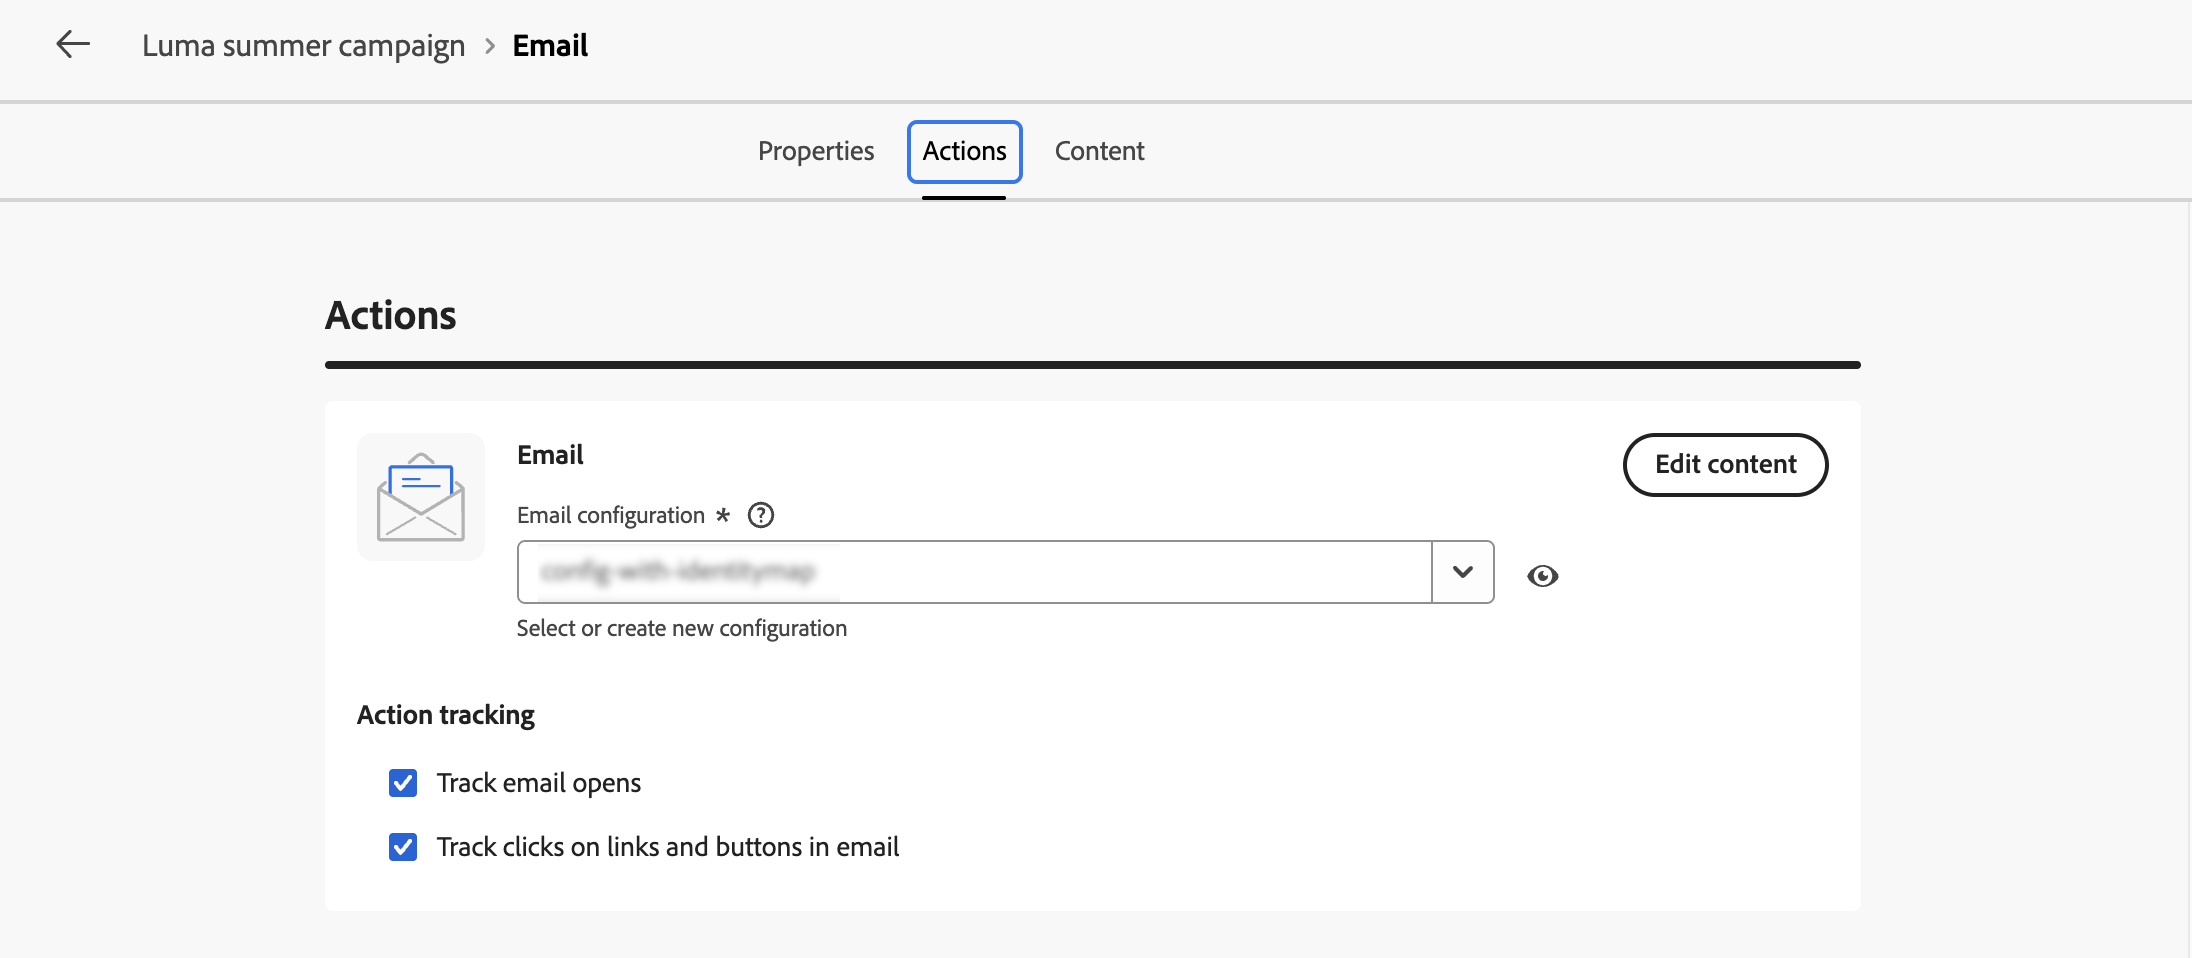
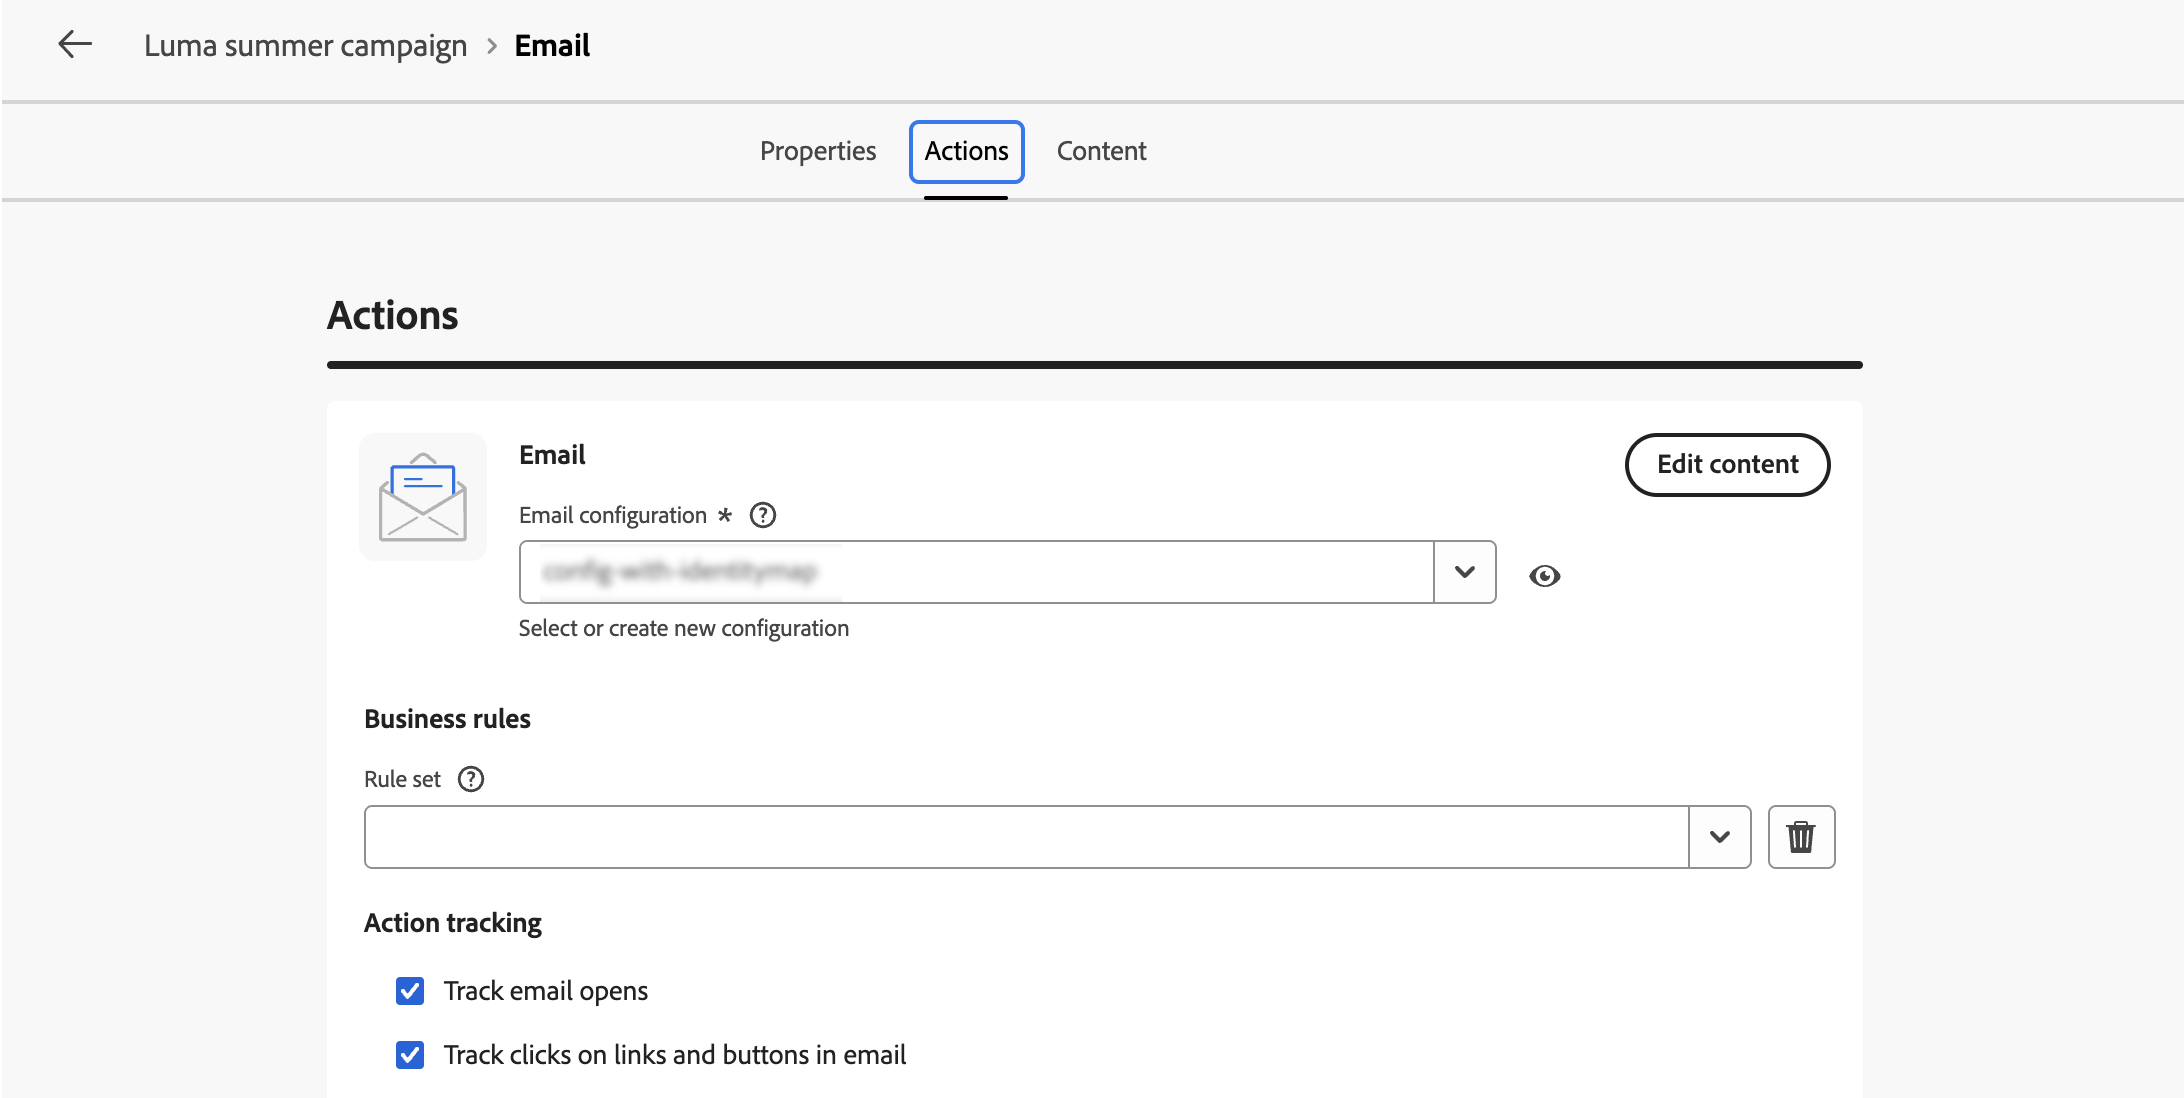
business rules in oc

diff --git a/help/using/orchestrated/activities/channels.md b/help/using/orchestrated/activities/channels.md
@@ -95,25 +95,29 @@ By using channel activities, you can create comprehensive and personalized campa
 
 Use the **[!UICONTROL Actions]** tab to select a channel configuration for your message and configure additional settings such as tracking, content experiment, or multilingual content.
 
-1. Select a channel configuration.
+1. **Select a channel configuration**
 
     A configuration is defined by a [System Administrator](../../start/path/administrator.md). It contains all the technical parameters for sending the message, such as header parameters, subdomain, mobile apps, etc. [Learn how to set up channel configurations](../../configuration/channel-surfaces.md).
 
     ![image showing the Actions section](../assets/channel-actions.png)
 
-1. Track engagement (for Email and SMS).
+1. **Apply capping rules**
+    
+    In the **[!UICONTROL Rule set]** drop-down list, select a channel rule set to apply capping rules to your campaign. Leveraging channel rule sets allows you you to set frequency capping by communication type to prevent overloading customers with similar messages. [Learn how to work with rule sets](../conflict-prioritization/rule-sets.md)
+
+1. **Track engagement** (Email and SMS)
 
     Use the **[!UICONTROL Action tracking]** section to track how your recipients react to your email or SMS deliveries. Tracking results are accessible from the campaign report once the campaign has been executed. [Learn more about campaign reports](../../reports/campaign-global-report-cja.md)
 
-1. Enable Rapid delivery mode (for Push).
+1. **Enable Rapid delivery mode** (Push)
 
     Rapid delivery mode is a [!DNL Journey Optimizer] add-on that allows very fast push message sending in large volumes though campaigns. Rapid delivery is used when delay in message delivery is business-critical, when you want to send an urgent push alert on mobile phones, for example a breaking news to users who have installed your news channel app. For more information on performances when using Rapid delivery mode, refer to [Adobe Journey Optimizer product description](https://helpx.adobe.com/legal/product-descriptions/adobe-journey-optimizer.html).
 
-1. Create a content experiment.
+1. **Create a content experiment**
 
     Use the **[!UICONTROL Content experiment]** section to define multiple delivery treatments in order to measure which one performs best for your target audience. Click the **[!UICONTROL Create experiment]** button then follow the steps detailed in this section: [Create a content experiment](../../content-management/content-experiment.md).
 
-1. Add multilingual content.
+1. **Add multilingual content**
 
     Use the **[!UICONTROL Languages]** section to create content in multiple languages within your campaign. To do so, click the **[!UICONTROL Add languages]** button and select the desired **[!UICONTROL Language settings]**. Detailed information on how to set up and use multilingual capabilities are available in this section: [Get started with multilingual content](../../content-management/multilingual-gs.md)
 
